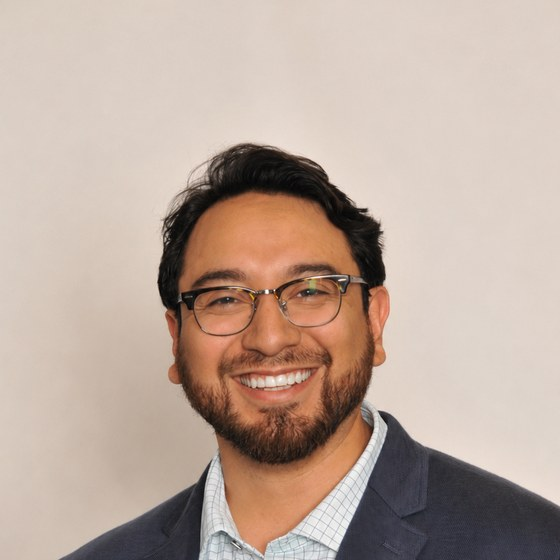
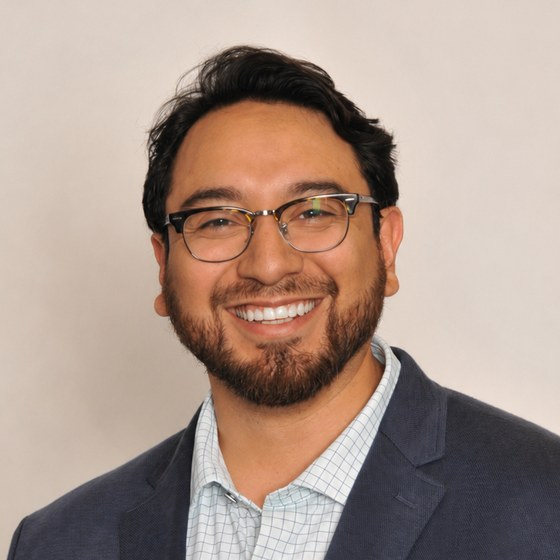
Tighter profile crop; date Security+ (2020) and add SecAI+ (2026)

diff --git a/src/data/site.js b/src/data/site.js
@@ -119,13 +119,13 @@ export const certifications = [
     group: 'Security Foundations',
     items: [
       { name: 'CISSP', issuer: 'ISC²', note: 'In progress' },
-      { name: 'Security+ (ce)', issuer: 'CompTIA', note: '' },
+      { name: 'Security+ (ce)', issuer: 'CompTIA', note: '2020' },
+      { name: 'SecAI+', issuer: 'CompTIA', note: '2026' },
     ],
   },
   {
     group: 'AI & Agentic Systems',
     items: [
-      { name: 'SecAI+', issuer: 'CompTIA', note: '' },
       { name: 'Multi-AI Agent Systems with crewAI', issuer: 'DeepLearning.AI', note: '2026' },
       { name: 'AI Security Essentials for Business Leaders', issuer: 'SANS', note: '' },
       { name: 'Model Context Protocol', issuer: 'Anthropic', note: '' },